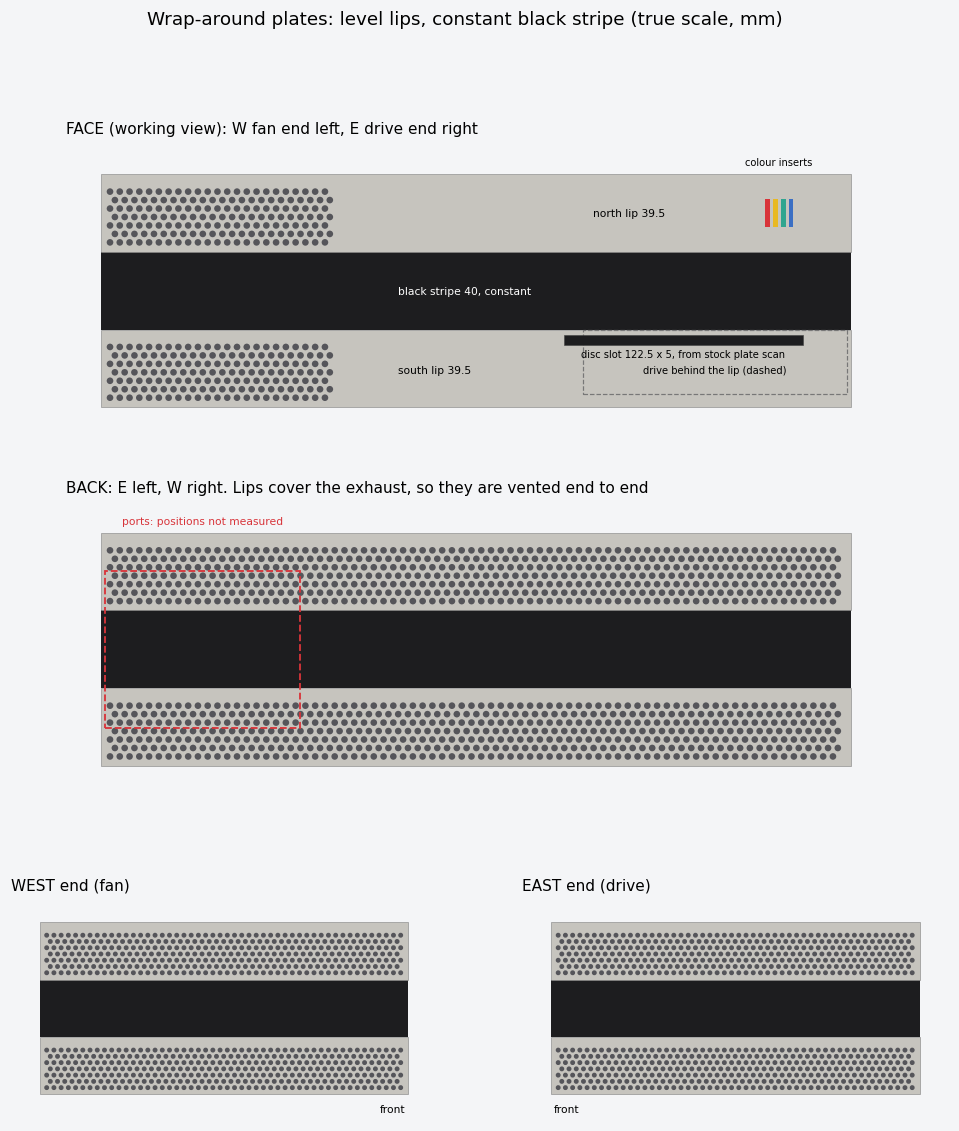
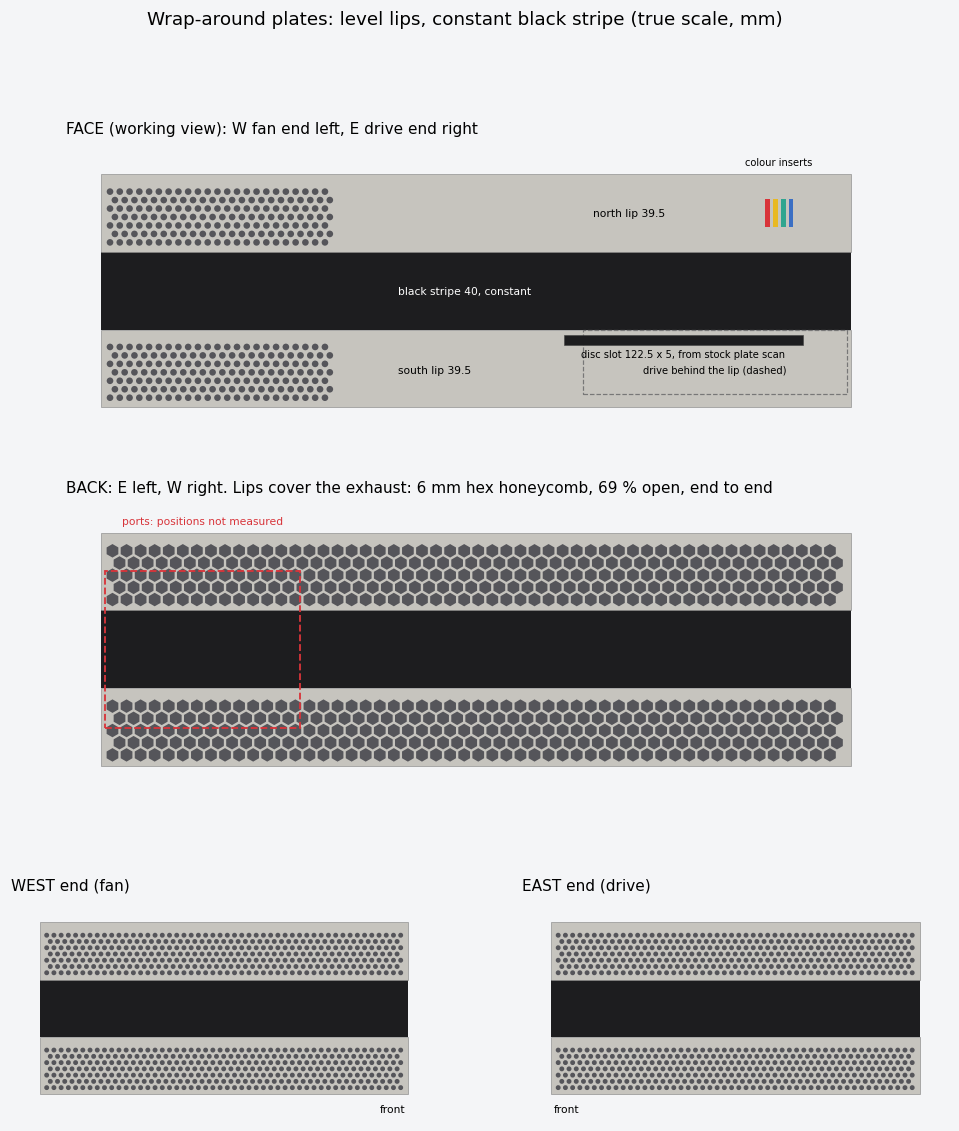
Use 6 mm hex honeycomb on back lips for exhaust airflow

Changed region(s): [[0.0907, 0.4642, 0.877, 0.557], [0.0907, 0.6189, 0.877, 0.6808], [0.4536, 0.4023, 0.6955, 0.4332]]

diff --git a/docs/mockups/wrap_mockup.py b/docs/mockups/wrap_mockup.py
@@ -5,7 +5,7 @@ import sys
 import matplotlib
 matplotlib.use("Agg")
 import matplotlib.pyplot as plt
-from matplotlib.patches import Rectangle, Polygon, Circle
+from matplotlib.patches import Rectangle, Polygon, Circle, RegularPolygon
 
 PLATE, CORE, DRIVE, VENT, BG = "#c6c4be", "#1d1d1f", "#dcdcd8", "#55555a", "#f4f5f7"
 ACCENT = ["#d8343a", "#e8b923", "#2fa58f", "#3b6fc4"]
@@ -25,6 +25,20 @@ def vents(ax, u0, u1, x0, x1, pitch=5.0, r=1.7, inset=3.0):
             ax.add_patch(Circle((u, x), r, color=VENT, lw=0))
             u += pitch
         x += pitch * 0.866
+        row += 1
+
+
+def honeycomb(ax, u0, u1, x0, x1, flats=6.0, web=1.2, inset=2.5):
+    """hex holes for the exhaust: open area = (flats / (flats + web))^2 = 69 % at 6 / 1.2"""
+    p = flats + web
+    r = flats / 3 ** 0.5                                  # circumradius of a hexagon with these flats
+    row, x = 0, x0 + inset + flats / 2
+    while x <= x1 - inset - flats / 2:
+        u = u0 + inset + r + (p / 2 if row % 2 else 0)
+        while u <= u1 - inset - r:
+            ax.add_patch(RegularPolygon((u, x), 6, radius=r, orientation=0, color=VENT, lw=0))
+            u += p
+        x += p * 0.866
         row += 1
 
 
@@ -58,10 +72,10 @@ def face(ax):
 
 def back(ax):
     """looking at the back: E left, W right. u = z"""
-    frame(ax, "BACK: E left, W right. Lips cover the exhaust, so they are vented end to end", 384)
+    frame(ax, "BACK: E left, W right. Lips cover the exhaust: 6 mm hex honeycomb, 69 % open, end to end", 384)
     ax.add_patch(Rectangle((L0, B_LO), L1 - L0, BAND, fc=CORE))
     lip(ax, L0, L1, B_HI, TOP); lip(ax, L0, L1, BOT, B_LO)
-    vents(ax, L0, L1, B_HI, TOP); vents(ax, L0, L1, BOT, B_LO)
+    honeycomb(ax, L0, L1, B_HI, TOP); honeycomb(ax, L0, L1, BOT, B_LO)
     ax.add_patch(Rectangle((0, -37.8), 100, 80, fill=False, ec="#d8343a", lw=1.2, ls="--"))
     ax.text(50, 66, "ports: positions not measured", color="#d8343a", fontsize=7, ha="center")
 

diff --git a/HANDOFF.md b/HANDOFF.md
@@ -87,3 +87,10 @@ Measured in `sources/rhys34512-printables-973426/disk-panel.stl` (front-facing s
 - **Width:** 6.0–6.7 mm. It follows the plate's ~2 mm twist, and the straight path common to the whole length is x′ −25.5…−21. The mockup uses x′ −25.5…−20.5.
 - **Depth:** the stock slot is not a hole in the face. It's a gap at y′ ≈ 111–113, about 16 mm behind the core face line (127.5), between the end of the plate's angled lower wall and a hollow **box-section edge** (x′ −20…−8) above it.
 - **Consequences for the lip strip:** only ~2.7 mm of lip is left between the slot and the stripe edge (−17.8). Copy the stock idea: back that narrow bridge with a box or L section, and guide the disc from the lip slot (y′ ≈ 128–130) back to the drive entry at y′ ≈ 111 with a short tunnel or funnel. The mockup shows only the face opening.
+
+## Back-lip ventilation (2026-11-02)
+Mike: the back edges must not obstruct the exhaust, so use bigger openings or a different pattern.
+- The back lips cover the core's rear exhaust where the core is wider than the 40 mm stripe: 20 mm per side at the drive end, tapering to 2.5 mm at the fan end. That's about 8,550 of about 23,750 mm², or **~36 % of the rear exhaust face**.
+- The round 3.4 mm holes at 5 mm pitch are 42 % open, which leaves **~79 %** of the stock exhaust area overall. A **6 mm hex honeycomb with 1.2 mm webs** is 69 % open, which gives **~89 %**. It's printable: three perimeters at 0.4 mm, holes vertical with the strip face-down. Chosen and drawn in `wrap_views.png`.
+- Further lever if the heat test says so: let the back lip stand off the core by a few mm to form a plenum, so air can spread to the open stripe. The lip strips aren't limited by bed depth. Not drawn.
+- These are area estimates, not a flow test. Airflow is unverified until the optional heat test.

diff --git a/CLAUDE.md b/CLAUDE.md
@@ -27,7 +27,7 @@ disc drive, light bars are NOT covered). Style: minimalism, subtle touches, PS1 
 | Mounting | **Slide-in, replaceable clip strips** (2026-11-02, BoxPlates-style) that slot into channels on the plate inner wall/floor; no glue. Replaces glued shelves + 0.8 mm pockets. Channel/retention design not done; shelves v2 hook geometry is the starting point |
 | Assembly | Weld tiles on the bench (only solvent step, never near the console) → slide clip strips in → fit to console |
 | Feet | TPU, ~12 mm, on the bottom plate (bottom fan grille must breathe) |
-| Wrap / lips (2026-11-02) | Plates wrap the core with **level lips and a constant 40 mm black stripe** on face, back and both ends (devynPC 1:05 sketch; `docs/mockups/wrap_views.png`). Lips sit in front of the core face, so they are **separate lip strips welded to the plate edge**; the plate tiles stay 255 deep for the 256 bed. Face lips vented at the fan end; back lips vented end to end with port cut-outs (TODO Job 1D); south face lip runs level over the drive with a disc slot hole |
+| Wrap / lips (2026-11-02) | Plates wrap the core with **level lips and a constant 40 mm black stripe** on face, back and both ends (devynPC 1:05 sketch; `docs/mockups/wrap_views.png`). Lips sit in front of the core face, so they are **separate lip strips welded to the plate edge**; the plate tiles stay 255 deep for the 256 bed. Face lips vented at the fan end; back lips vented end to end with a **6 mm hex honeycomb, 1.2 mm webs, ~69 % open** (the round 3.4/5 grille pattern is only ~42 %), plus port cut-outs (TODO Job 1D); south face lip runs level over the drive with a disc slot hole |
 | Accent placement | Colour inserts on the **north face lip** (seen from the working orientation), not on the plate top |
 
 ## Printing constraints
